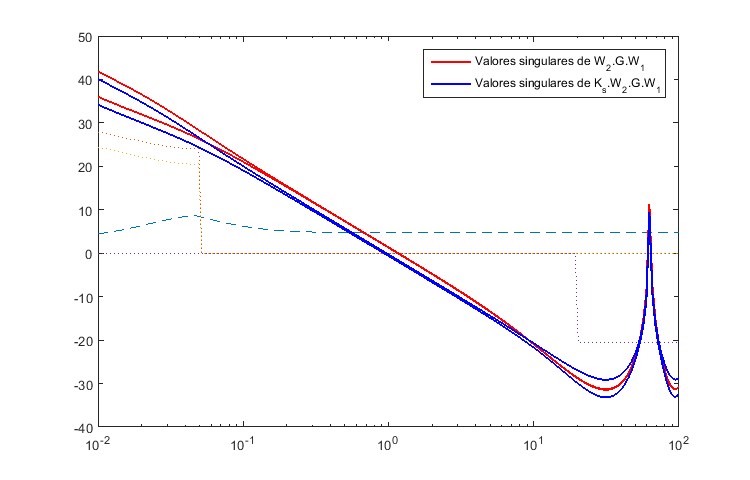
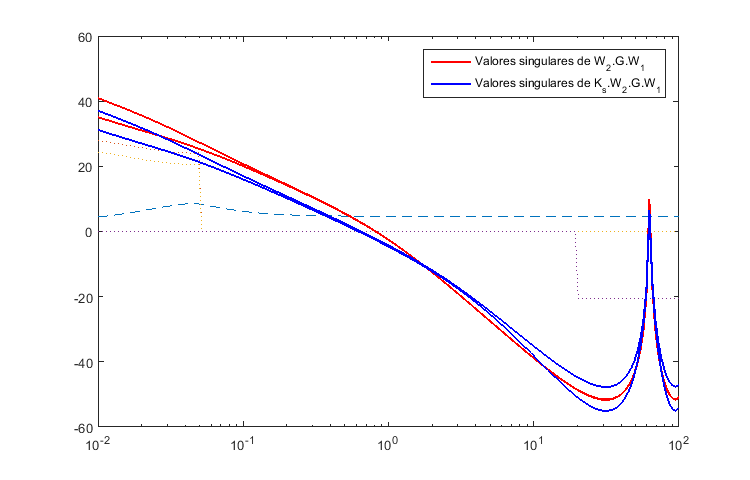
New Hinf Singular Values Image

diff --git a/Hinf Loop Shaping/Hinf_LSDP_pheno.m b/Hinf Loop Shaping/Hinf_LSDP_pheno.m
@@ -7,7 +7,7 @@ Ts=0.1;
 A1 = 254.469; A2 = 254.469; A3 = 254.469; A4 = 254.469;
 a1 = 0.466; a2 = 0.466; %a3 = 0.466; a4 = 0.466; 
 a3 = 0.3421; a4 = 0.3421; 
-k1 = 10; k2 = 10;
+k1 = 18; k2 = 18;
 gamma_1 = 0.75; gamma_2 = 0.74; 
 g = 980;
 h0_1 = 9.2; h0_2 = 6.2; h0_3 = 0.7; h0_4 = 0.7;
@@ -48,12 +48,12 @@ bothComp = true;
 Kp = 10;
 Ki = 0.1;
 s = tf('s');
-W1 = 4*[(Kp +(Ki/s)) 0; 0 (Kp +(Ki/s))];
+W1 = 2*[(Kp +(Ki/s)) 0; 0 (Kp +(Ki/s))];
 sys_W1_d = ss(c2d(W1,Ts),'minimal');
 
 % W2 Compensator
 if(bothComp)
-    W2 = (10/(s+10))*eye(2);
+    W2 = (1/(s+1))*eye(2);
     sys_W2_d = ss(c2d(W2,Ts),'minimal');
 else
     W2 = ss(zeros(2),zeros(2),zeros(2),eye(2));
